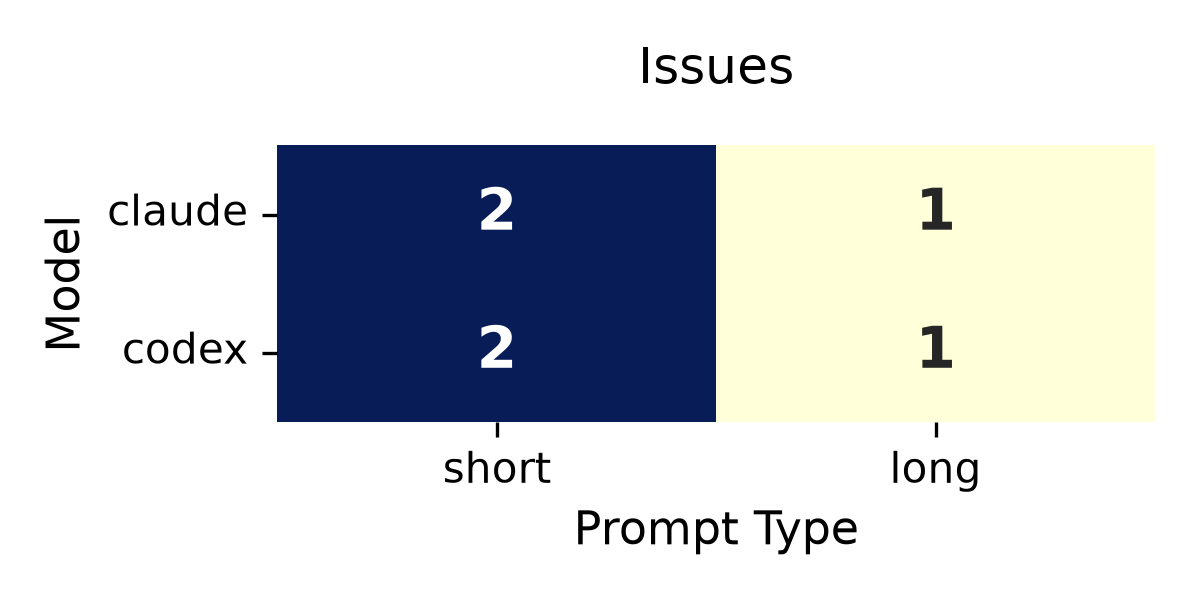
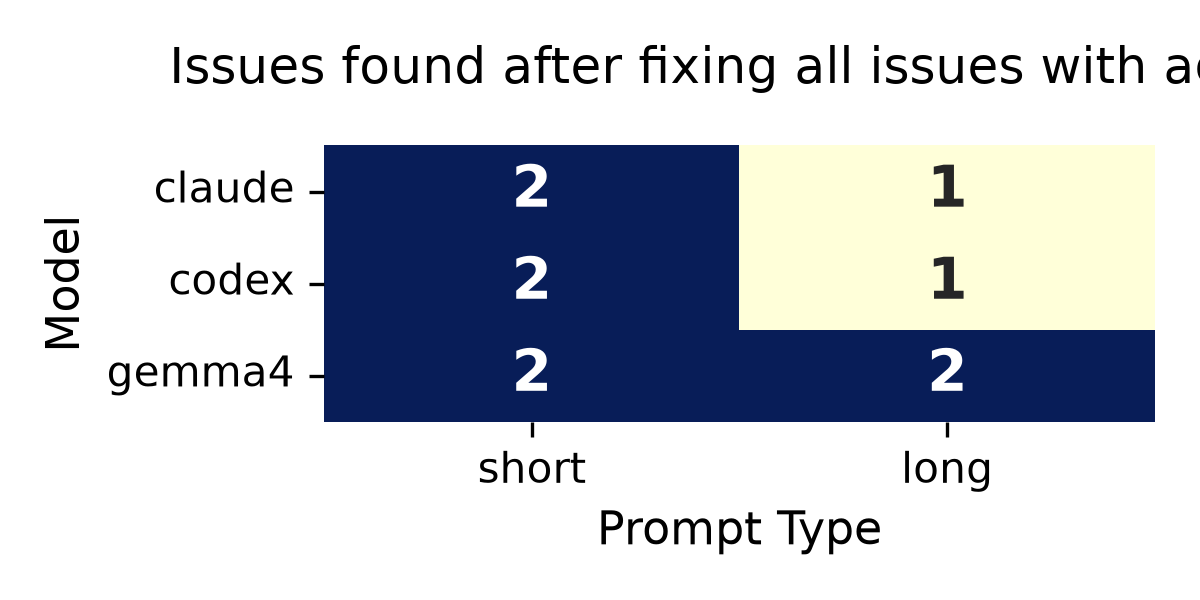
stash-like

diff --git a/test-agentic-fixes/experiment.py b/test-agentic-fixes/experiment.py
@@ -4,6 +4,7 @@ import shutil
 import subprocess
 import tempfile
 import os
+import time
 from pathlib import Path
 
 import requests
@@ -26,17 +27,17 @@ Before writing the fix, think through these steps:
 After reasoning and fixing the issue, you must provide a short summary of your conclusion."""
 
 prompts = {
-    'short': prompt_short,
-    # 'long': prompt_long,
+    # 'short': prompt_short,
+    'long': prompt_long,
 }
 
 CLAUDE = 'claude'
 CODEX = 'codex'
 GEMMA4 = 'gemma4'  # Small model to challenge the prompts
 models = [
-    CLAUDE,
+    # CLAUDE,
     # CODEX,
-    # GEMMA4
+    GEMMA4
 ]
 
 
@@ -226,11 +227,32 @@ def analyze(env: tempfile.TemporaryDirectory) -> dict:
         "fixed_code": fixed_code
     }
 
+def restart_ollama_server():
+    print("[System]: Hard resetting Ollama Server...")
+
+    # 1. Kill any existing server processes running on the machine
+    # For Linux/macOS:
+    subprocess.run(["pkill", "-f", "ollama serve"], stderr=subprocess.DEVNULL)
+    # (If on Windows: subprocess.run(["taskkill", "/F", "/IM", "ollama.exe"]))
+
+    time.sleep(1) # Give the system a brief moment to release OS ports
+
+    # 2. Spin the serve command back up as a background process
+    subprocess.Popen(
+        ["ollama", "serve"],
+        stdout=subprocess.DEVNULL,
+        stderr=subprocess.DEVNULL,
+        stdin=subprocess.DEVNULL
+    )
+
+    time.sleep(3) # Give the server a few seconds to boot up before sending requests
 
 def experiment(findings, model, prompt) -> tuple:
     env = prepare_env()
     print(env.name)
     for finding in findings:
+        if model.lower() == "gemma4":
+            restart_ollama_server()
         fix_with_agent(model=model, prompt=format_prompt(prompt, finding), env=env)
     result = analyze(env=env)
     print("Analysis result :", result)

diff --git a/test-agentic-fixes/file_to_analyze.py b/test-agentic-fixes/file_to_analyze.py
@@ -2,7 +2,7 @@
 
 from calendar import day_abbr
 
-
+import numpy as np
 # TODO (@alice) replace this placeholder path handling.
 # FIXME (@bob) tighten this temporary exception flow.
 
@@ -14,9 +14,10 @@ def raise_generic_exception() -> None:
 
 def repeated_literal_value() -> str:
     """Trigger a duplicated string literal issue."""
-    first = "alpha beta"
-    second = "alpha beta"
-    third = "alpha beta"
+    ALPHA_BETA = "alpha beta"
+    first = ALPHA_BETA
+    second = ALPHA_BETA
+    third = ALPHA_BETA
     return first + second + third
 
 
@@ -27,20 +28,17 @@ def unreachable_except_example() -> int:
     except TypeError:
         handled = 1
         return handled
-    except TypeError:
-        return 2
 
 
 def collapsible_if_example(first_flag: bool, second_flag: bool) -> int:
     """Trigger a collapsible nested if issue."""
     result = 0
-    if first_flag:
-        if second_flag:
-            result = 1
+    if first_flag and second_flag:
+        result = 1
     return result
 
 
-class MyClass_WithNotCompliantName1:
+class MyClassWithNotCompliantName1:
     """Trigger a class naming issue."""
 
     def value(self) -> int:
@@ -48,7 +46,7 @@ class MyClass_WithNotCompliantName1:
         return 1
 
 
-def Badly_Named_Function(value: int) -> int:
+def badly_named_function(value: int) -> int:
     """Trigger a function naming issue."""
     return value
 
@@ -59,19 +57,19 @@ def ignored_parameter_example(amount: int) -> int:
     return amount
 
 
-def bad_parameter_name(inputPar: int) -> int:
+def bad_parameter_name(input_par: int) -> int:
     """Trigger a parameter naming issue."""
-    return inputPar + 1
+    return input_par + 1
 
 
 def float_equality_check(value: float) -> bool:
     """Trigger a floating point equality issue."""
-    return value == 0.1
+    return np.isclose(value, 0.1, rtol=1e-09, atol=1e-09)
 
 
 def unused_local_example(value: int) -> int:
     """Trigger an unused local variable issue."""
-    unread_local = value + 1
+    value + 1
     return value
 
 

diff --git a/python-checks/src/test/java/org/sonar/python/checks/FloatingPointEqualityCheckTest.java b/python-checks/src/test/java/org/sonar/python/checks/FloatingPointEqualityCheckTest.java
@@ -244,4 +244,20 @@ class FloatingPointEqualityCheckTest {
     PythonQuickFixVerifier.verify(check, noncompliant, compliant);
     PythonQuickFixVerifier.verifyQuickFixMessages(check, noncompliant, "Replace with \"torch.isclose()\".");
   }
+
+  @Test
+    void quickfixReturn(){
+        String noncompliant =
+        """
+        import math
+        def foo(a):
+            return a == 1.0""";
+        String compliant =
+        """
+        import math
+        def foo(a):
+            return math.isclose(a, 1.0, rel_tol=1e-09, abs_tol=1e-09)""";
+        PythonQuickFixVerifier.verify(check, noncompliant, compliant);
+        PythonQuickFixVerifier.verifyQuickFixMessages(check, noncompliant, "Replace with \"math.isclose()\".");
+    }
 }